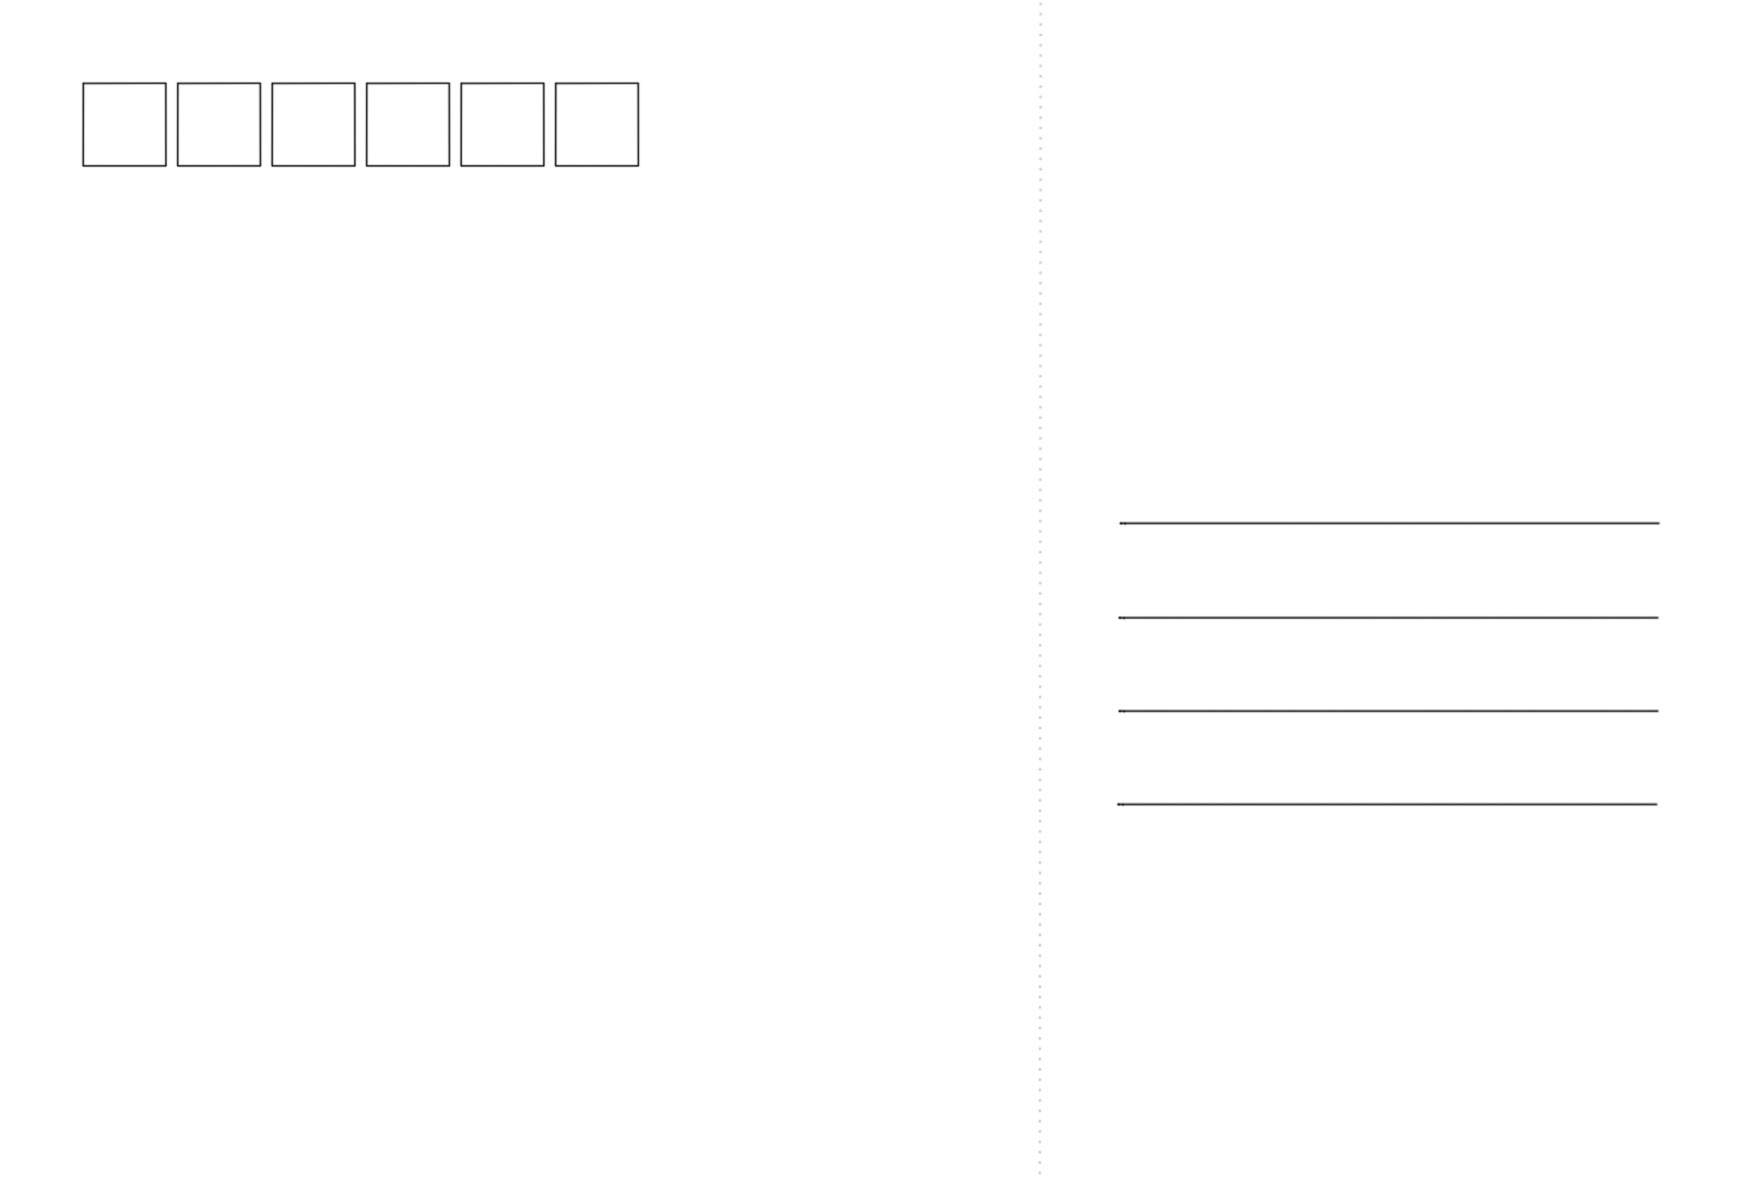
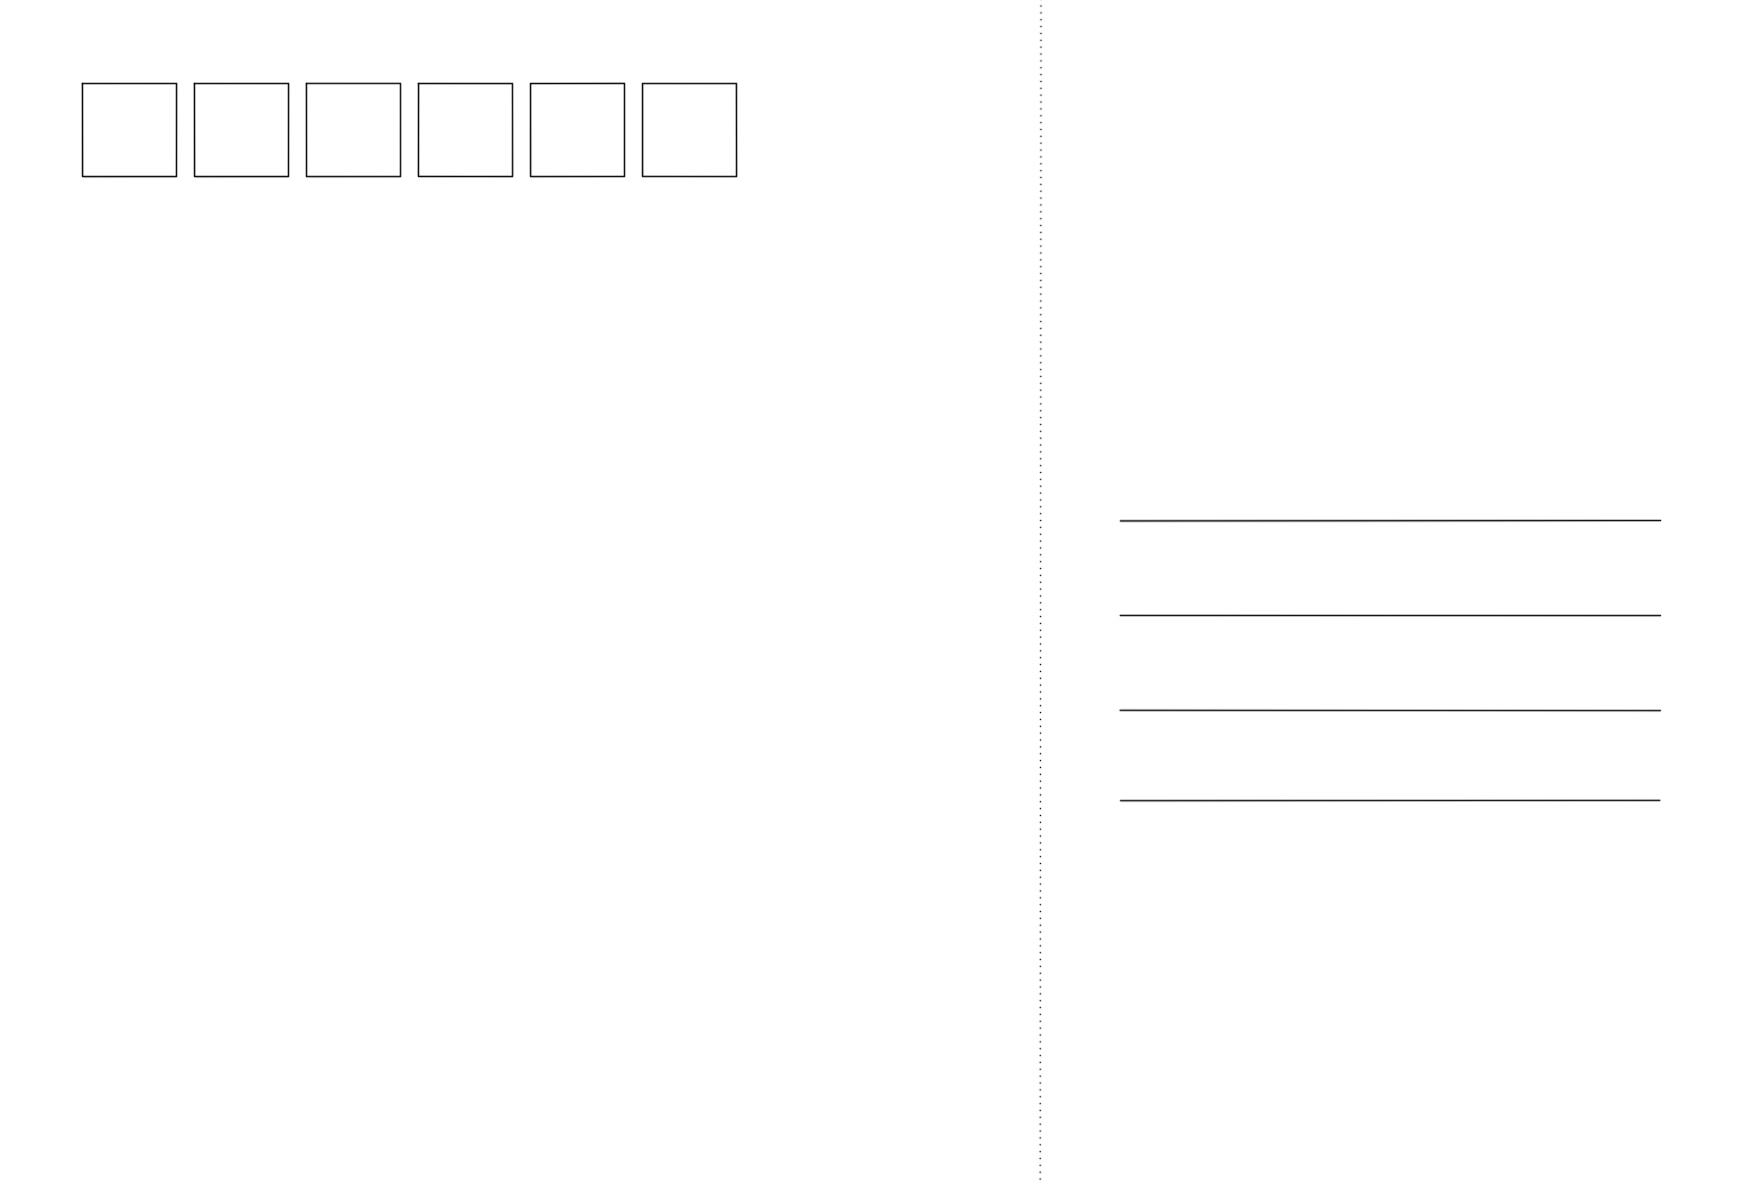
text layout

diff --git a/public/css/common.css b/public/css/common.css
@@ -126,15 +126,15 @@ body {background: rgba(0,0,0,0.7);}
     margin-left: -122px;
     transition: all 0.3s ease-in 0;
 }
-.bgLayer_img {width: 244px;height: 360px;transition: all 0.3s ease-in 0;}
+.bgLayer_img {width: 243px;height: 360px;transition: all 0.3s ease-in 0;}
 .imgLayer {
     position: absolute;
     z-index: 4;
     top: 14px;
     left: 50%;
-    margin-left: -119px;
+    margin-left: -118px;
     overflow: auto;
-    width: 238px;
+    width: 236px;
     height: 350px;
     transition: all 0.3s ease-in 0;
 }
@@ -509,8 +509,8 @@ a.on i {display: block;}
 }
 #zipcodePreview {
     font-size:12px;
-    letter-spacing:9.2px;
-    top:18px;
+    letter-spacing:12.8px;
+    top:19px;
     left:18px;
     position:absolute;
 }
@@ -526,19 +526,19 @@ a.on i {display: block;}
     font-size:9px;
     text-align:left;
     top:60px;
-    left:13px;
+    left:27px;
     width:140px;
     position:absolute;
 }
 #signaturePreview {
     font-size:9px;
     top:150px;
-    left:120px;
+    left:110px;
     position:absolute;
 }
 #qrImagePreview {
-    top:155px;
-    left:13px;
+    top:160px;
+    left:260px;
     width:26px;
     height:26px;
     border: 0;
@@ -548,12 +548,12 @@ a.on i {display: block;}
     font-size:5px;
     text-align:left;
     top:188px;
-    left:14px;
+    left:260px;
     position: absolute;
 }
 #stampPreview {
-    top:10px;
-    left:250px;
+    top:18px;
+    left:245px;
     width:40px;
     height:40px;
     border: 1px solid;
@@ -562,34 +562,34 @@ a.on i {display: block;}
 #addressPreview {
     font-size:7px;
     text-align:left;
-    top:78px;
-    left:190px;
-    width:100px;
+    top:85px;
+    left:193px;
+    width:90px;
     position:absolute;
 }
 #recipientPreview {
     font-size:7px;
     left:220px;
-    top:122px;
+    top:130px;
     position:absolute;
 }
 #postmarkPreview {
-    left:230px;
-    top:150px;
-    width:50px;
-    height:40px;
+    left:215px;
+    top:30px;
+    width:45px;
+    height:35px;
     position:absolute;
 }
 #postmarkCityPreview {
     font-size:6px;
-    left:250px;
-    top:170px;
+    left:237px;
+    top:48px;
     position:absolute;
 }
 #postmarkDatePreview {
     font-size:4px;
-    left:250px;
-    top:178px;
+    left:235px;
+    top:55px;
     position:absolute;
 }
 

diff --git a/module/Postcard/src/Postcard/Controller/PostcardController.php b/module/Postcard/src/Postcard/Controller/PostcardController.php
@@ -726,11 +726,6 @@ class PostcardController extends AbstractActionController
         imagesavealpha($background, true);
         imagecopyresampled($dst, $background, 0, 0, 0, 0, $canvas_w, $canvas_h, imagesx($background), imagesy($background));
 
-        // can't use imagettftext because it can't adjust char spacing
-//        $size = 40; // font size
-//        $x = 85;
-//        $y = 95;
-//        $space = 8;
         $font = imagepsloadfont("public/fonts/Schneidler-HTF-Titling.pfb");
         if (!$font) {
             echo 'Load font Schneidler-HTF-Titling.pfb failed.';
@@ -738,11 +733,11 @@ class PostcardController extends AbstractActionController
         // zip code
         $zip_color = imagecolorallocate($dst, 38, 38, 38);
         //                                       size                     x   y      tightness
-        imagepstext($dst, $order->zipCode, $font, 54, $zip_color, $white, 112, 150, 50, 1185);
+        imagepstext($dst, $order->zipCode, $font, 54, $zip_color, $white, 120, 155, 50, 1500);
         // salutation
         if ($order->salutation) {
             $pos['left']     = 80;
-            $pos['top']      = 260;
+            $pos['top']      = 300;
             $pos['width']    = 810;
             $pos['fontSize'] = 36;
             $this->draw_txt_to($dst, $pos, $order->salutation);
@@ -753,7 +748,7 @@ class PostcardController extends AbstractActionController
             $pos['top']      = 423;
             $pos['width']    = 756;
             $pos['fontSize'] = 36;
-            $pos['lineSpace'] = 90;
+            $pos['lineSpace'] = 94;
             $this->draw_txt_to($dst, $pos, $order->message);
         }
         // signature
@@ -771,18 +766,16 @@ class PostcardController extends AbstractActionController
         $pos['top']      = 500;
         $pos['width']    = 540;
         $pos['fontSize'] = 30;
-        $pos['lineSpace'] = 90;
+        $pos['lineSpace'] = 94;
         $this->draw_txt_to($dst, $pos, $order->address);
         // recipient name
         $pos['left']     = 1270;
-        $pos['top']      = 770;
+        $pos['top']      = $pos['top'] + 282;
         $pos['width']    = 1080;
         $pos['fontSize'] = 30;
         $this->draw_txt_to($dst, $pos, $order->recipient);
 
         // voice qr code
-        $text = null;
-        $image_qr = null;
         if ($order->voiceMediaId && file_exists($this->voicePath().$order->voiceMediaId.'.png')) {
             $image_qr = imagecreatefrompng($this->voicePath().$order->voiceMediaId.'.png');
 
@@ -802,17 +795,19 @@ class PostcardController extends AbstractActionController
             $image_qr = imagecreatefromjpeg('public/images/big/quyou_qr.jpg');
             $text = '趣邮明信片';
         }
-        imagecopyresampled($dst, $image_qr, 1465, 910, 0, 0, 216, 216, imagesx($image_qr), imagesy($image_qr));
-        $pos['left']     = 1500;
+        $width=$height=260;
+        imagecopyresampled($dst, $image_qr, $canvas_w-$width-60, $canvas_h-$height-60, 0, 0, $width, $height, imagesx($image_qr), imagesy($image_qr));
+        $pos['left']     = 1490;
         $pos['top']      = 1150;
         $pos['width']    = 216;
         $pos['fontSize'] = 20;
         $pos['fontFile'] = "public/fonts/Kaiti.ttc";
         $this->draw_txt_to($dst, $pos, $text);
 
-        // stamp
+        // stamp   82px => 7mm
+        $width=$height=300;
         $image = imagecreatefrompng('public/images/big/stamp.png');
-        imagecopyresampled($dst, $image, 1358, 36, 0, 0, 354, 354, imagesx($image), imagesy($image));
+        imagecopyresampled($dst, $image, $canvas_w-82-$width, 82, 0, 0, $width, $height, imagesx($image), imagesy($image));
 
         // Commemorative Chop
         if ($order->postmarkId != null) {
